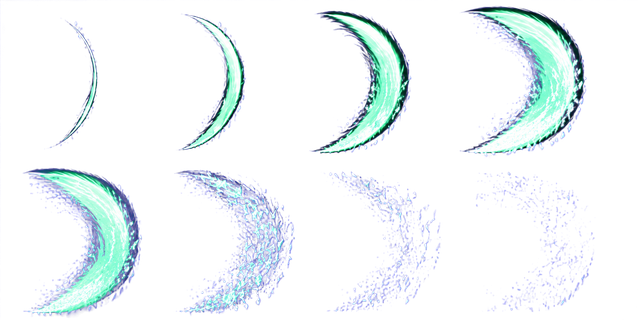
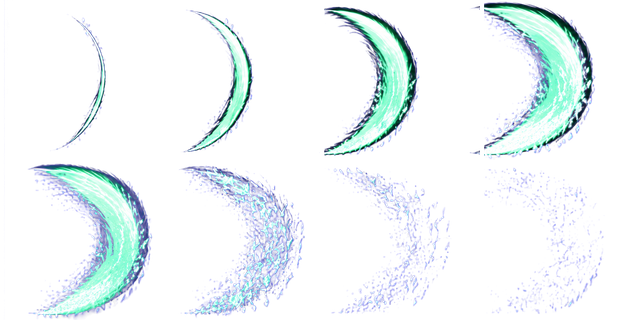
Зона косы рисуется её настоящим конусом, удар — один раз
Коса бьёт сектором 86 градусов по взгляду (у эволюции 132), а зона
рисовалась полным кругом в 494 px — вчетверо больше, чем оружие
достаёт. pulseZone теперь принимает полуугол и строит границу тем же
сектором, по которому идёт попадание; шесть круговых орудий не
затронуты.

Второе: след косы из fx-layer рисовался поверх нового листа на 185%
радиуса, сложением и без обрезки — один удар выходил нарисованным
дважды, и старый след расплывался далеко за границу зоны. Где есть
лист по заданию, старый след больше не рисуется. Тот же блок лежит
копией в render/fx/weapon-trails.js — правка внесена в обе.

Приёмка листов в chromakey.py переведена с рамки содержимого на массу
рисунка. Рамку на всю ячейку растягивала одна искра на затухании, из-за
чего первый лист косы был принят зря: по радиусу он годится, но масса
размазана на 194-299 градусов при конусе 86. Инструмент печатает r50,
r90, увод центра и угловой охват по каждому кадру; задание на косу
переписано под настоящий угол.

Claude-Session: https://claude.ai/code/session_01HKqKr2FyXg3awmgfb8SuGD

diff --git a/project/chernolesie/src/game/data/weapon-fx.js b/project/chernolesie/src/game/data/weapon-fx.js
@@ -68,37 +68,54 @@ function wfx(id){return WFX[id]||WFX_DEF;}
 //  попадание, без «художественных» множителей: если нарисовано больше, чем
 //  бьёт, игрок учится не верить картинке.
 // ============================================================
+//  v7.35: не всякая зона — круг. Коса бьёт конусом по взгляду (halfArc 0.75 рад,
+//  у эволюции 1.15), а кольцо рисовалось полное — обещало удар вокруг себя при
+//  секторе вперёд, то есть вчетверо больше, чем бьёт. Поэтому граница строится
+//  по той же паре (радиус, полуугол), по которой считается попадание: у конуса
+//  это сектор с двумя радиусами, у круга — прежнее кольцо.
 function zoneStamp(x,y,R,id,a,opts){
  if(!(R>0)||!(a>0))return;
  const f=wfx(id),o=opts||{};
  // толщина кромки НЕ пропорциональна радиусу: у зоны в 500px кольцо в 14px
  // читается как забор вокруг игрока. Растёт медленно и упирается в потолок.
  const rimW=o.rimW||Math.max(2,Math.min(5.5,1.6+R*0.008));
+ // сектор: полуугол меньше пи — значит зона конусная и замыкается на игроке
+ const half=(o.arc>0&&o.arc<Math.PI)?o.arc:0;
+ const ang=o.ang||0;
+ const path=function(){
+  ctx.beginPath();
+  if(half){
+   ctx.moveTo(0,0);
+   ctx.arc(0,0,R,ang-half,ang+half);
+   ctx.closePath();
+  }else ctx.arc(0,0,R,0,TAU);
+ };
  ctx.save();
  ctx.translate(x,y);
  // 1) тёмная кромка — обычным смешиванием, чтобы у зоны был край
  ctx.globalAlpha=Math.min(1,a*0.55);
  ctx.strokeStyle=f.rim;
  ctx.lineWidth=rimW*1.9;
- ctx.beginPath();ctx.arc(0,0,R,0,TAU);ctx.stroke();
+ path();ctx.stroke();
  // 2) цветное кольцо поверх кромки
  ctx.globalCompositeOperation='lighter';
  ctx.globalAlpha=a*0.8;
  ctx.strokeStyle=f.col;
  ctx.lineWidth=rimW;
- ctx.beginPath();ctx.arc(0,0,R,0,TAU);ctx.stroke();
+ path();ctx.stroke();
  // 3) заливка: слабая, только чтобы зона читалась как площадь, а не как обод.
  //    Сильнее нельзя — при трёх зонах внахлёст экран уходит в молоко.
  // заливка — только у небольших зон. У кольца в пол-экрана она затемняет
  // всё поле и спорит с землёй; там достаточно самой границы.
- if(o.fill!==false&&R<220){
+ // у сектора заливка уместна и на большом радиусе: он занимает четверть круга
+ if(o.fill!==false&&(R<220||half)){
   const g=ctx.createRadialGradient(0,0,R*0.25,0,0,R);
   g.addColorStop(0,'rgba(0,0,0,0)');
   g.addColorStop(0.82,f.col+'14');
   g.addColorStop(1,f.col+'30');
   ctx.globalAlpha=a*0.9;
   ctx.fillStyle=g;
-  ctx.beginPath();ctx.arc(0,0,R,0,TAU);ctx.fill();
+  path();ctx.fill();
  }
  ctx.restore();
 }
@@ -109,13 +126,16 @@ function zoneStamp(x,y,R,id,a,opts){
 //  экран в кашу, но игрок успевает прочитать, что именно ударило.
 // ------------------------------------------------------------
 let zonePulses=[];
-function pulseZone(x,y,R,id,life){
+// arc — полуугол конуса в радианах, тот же, по которому считается попадание.
+// Без него зона считается круговой, как и было у шести круглых орудий.
+function pulseZone(x,y,R,id,life,arc){
  if(!(R>0))return;
  if(zonePulses.length>24)zonePulses.shift();   // предохранитель на плотной волне
  // большая зона гаснет быстрее: чем шире кольцо, тем дольше оно мозолит глаз
  const L=life||(R>300?0.3:0.42);
  // угол фиксируется в момент удара: лист не должен крутиться на месте
- zonePulses.push({x:x,y:y,R:R,id:id,t:L,max:L,rot:(typeof P!=='undefined'&&P.fx!=null)?Math.atan2(P.fy||0,P.fx||1):0});
+ zonePulses.push({x:x,y:y,R:R,id:id,t:L,max:L,arc:arc||0,
+  rot:(typeof P!=='undefined'&&P.fx!=null)?Math.atan2(P.fy||0,P.fx||1):0});
 }
 function drawZonePulses(dt){
  for(let i=zonePulses.length-1;i>=0;i--){
@@ -133,8 +153,9 @@ function drawZonePulses(dt){
   // есть, кольцо приглушается, чтобы не спорить с рисунком.
   const RR=z.R*(1+(1-k)*0.06);
   const hasSheet=!!wfxSheet(z.id);
-  zoneStamp(zx,zy,RR,z.id,Math.min(1,k*1.25)*(hasSheet?0.5:1),hasSheet?{fill:false}:null);
-  if(hasSheet)zoneSheetStamp(zx,zy,RR,z.id,k,z.rot);
+  zoneStamp(zx,zy,RR,z.id,Math.min(1,k*1.25)*(hasSheet?0.5:1),
+   {arc:z.arc,ang:z.rot,fill:hasSheet?false:undefined});
+  if(hasSheet)zoneSheetStamp(zx,zy,RR,z.id,k,z.rot,z.arc);
  }
 }
 
@@ -179,7 +200,7 @@ function wfxSheet(id){
  return (im&&im.complete&&im.naturalWidth)?s:null;
 }
 // Кадр листа по прогрессу 0..1 (0 — момент удара, 1 — конец вспышки).
-function zoneSheetStamp(x,y,R,id,k,rot){
+function zoneSheetStamp(x,y,R,id,k,rot,arc){
  const slot=wfxSheet(id);
  if(!slot)return false;
  const raw=slot.im||slot, brief=!!slot.brief;
@@ -190,6 +211,17 @@ function zoneSheetStamp(x,y,R,id,k,rot){
  const d=R*2;
  ctx.save();
  ctx.translate(x,y);
+ // конусная зона: лист приходит веером примерно на 150°, а бьёт коса на 86°.
+ // Без обрезки нарисованное снова шире правил. Режем по тому же сектору,
+ // по которому считается попадание, — с небольшим запасом, чтобы срез не
+ // выглядел ножницами по живому.
+ if(arc>0&&arc<Math.PI){
+  ctx.beginPath();
+  ctx.moveTo(0,0);
+  ctx.arc(0,0,R*1.02,rot-arc*1.06,rot+arc*1.06);
+  ctx.closePath();
+  ctx.clip();
+ }
  if(rot)ctx.rotate(rot);
  if(brief){
   // непрозрачный силуэт поверх карты, как в Vampire Survivors: обводка держит

diff --git a/project/chernolesie/src/game/render/fx-layer.js b/project/chernolesie/src/game/render/fx-layer.js
@@ -187,6 +187,14 @@ function drawFxLayer(){
   if (sx < -130 || sy < -130 || sx > W + 130 || sy > H + 130) continue;
 
   if(s._kosa){
+   // v7.35: у косы есть свой лист зоны по заданию (WFX_SHEETS.kosa). Этот след
+   // рисуется на 185% радиуса, сложением и без обрезки по конусу — поверх листа
+   // он расплывался далеко за границу зоны, и удар читался как мазок. Один удар
+   // рисуется один раз: где есть лист, старый след не нужен.
+   // Тот же блок продублирован в render/fx/weapon-trails.js (ветка .modern),
+   // правка внесена в оба, чтобы копии не разъехались.
+   const _kw=(typeof WFX_SHEETS!=='undefined')&&WFX_SHEETS.kosa;
+   if(_kw&&_kw.brief)continue;
    const kk=Math.min(1,s.t/0.26);
    ctx.save();ctx.translate(P.x-cam.x,P.y-cam.y);ctx.rotate(s.ang);
    ctx.globalCompositeOperation='lighter';

diff --git a/project/chernolesie/src/game/render/fx/weapon-trails.js b/project/chernolesie/src/game/render/fx/weapon-trails.js
@@ -12,6 +12,13 @@ export function drawWeaponTrails(ctx, slashes, cam, FXS, currentClass, weapons, 
 
     // Коса Моры
     if (s._kosa) {
+      // v7.35: у косы появился свой лист зоны по заданию (WFX_SHEETS.kosa).
+      // Старый след рисовался поверх него на 185% радиуса, сложением и без
+      // обрезки по конусу — он и расплывался за границу зоны, превращая удар
+      // в мазок. Один удар рисуется один раз: где есть лист, старый след лишний.
+      const _kw = (typeof WFX_SHEETS !== 'undefined') && WFX_SHEETS.kosa;
+      if (_kw && _kw.brief) continue;
+
       const kk = Math.min(1, s.t / 0.26);
       ctx.save();
       ctx.translate(P.x - cam.x, P.y - cam.y);

diff --git a/project/chernolesie/src/game/weapons/set-a.js b/project/chernolesie/src/game/weapons/set-a.js
@@ -39,8 +39,10 @@ function doKosa(){
  {const _fa=Math.atan2(P.fy||0,P.fx||1);for(let _i=0;_i<7;_i++){const _a=_fa+rnd(-0.8,0.8);spawnParticle(P.x+Math.cos(_a)*40,P.y+Math.sin(_a)*40,Math.cos(_a)*140,Math.sin(_a)*140,rnd(.2,.45),'#bfe0ff',30,0);}}
  const evo=w&&w.evo;
  const R=(96+16*lvl)*wArea('kosa');
- pulseZone(P.x,P.y,R,'kosa');   // v7.33: коса бьёт на 165% ширины кадра — покажем это
  const halfArc=(evo?1.15:0.75);
+ // v7.35: зона рисуется тем же конусом, по которому идёт попадание (см. dot ниже).
+ // До этого рисовался полный круг — вчетверо больше, чем коса на самом деле бьёт.
+ pulseZone(P.x,P.y,R,'kosa',0,halfArc);
  const fx=P.fx||1,fy=P.fy||0;
  const list=enemiesNear(P.x,P.y,R+24);
  let hitAny=false;

diff --git a/project/chernolesie/tools/chromakey.py b/project/chernolesie/tools/chromakey.py
@@ -119,6 +119,62 @@ def union_box(frames, threshold=6.0):
     return box
 
 
+def frame_stats(f):
+    """Где на самом деле лежит рисунок кадра: центр масс и радиус по массе.
+
+    Рамка содержимого для этого не годится. Она берёт крайний непрозрачный
+    пиксель, поэтому одна еле видная искра на затухании растягивает её на всю
+    ячейку — лист выглядит принятым, а на экране яркое ядро сидит вдвое ближе
+    к игроку, чем граница поражения. Масса такого не прощает."""
+    a = f[:, :, 3] / 255.0
+    tot = a.sum()
+    if tot < 1e-6:
+        return None
+    h, w = a.shape
+    yy, xx = np.mgrid[0:h, 0:w]
+    cx, cy = (w - 1) / 2.0, (h - 1) / 2.0
+    R = w / 2.0
+    mx = float((a * (xx - cx)).sum() / tot)
+    my = float((a * (yy - cy)).sum() / tot)
+    rad = (np.hypot(xx - cx, yy - cy) / R).ravel()
+    order = np.argsort(rad)
+    cs = np.cumsum(a.ravel()[order])
+    q = lambda p: float(rad[order][np.searchsorted(cs, tot * p)])
+    # угловой охват массы: у конусного оружия рисунок обязан лежать в его секторе,
+    # иначе на экране удар шире правил — или, после обрезки, от него остаётся полоска
+    ang = np.degrees(np.arctan2(yy - cy, xx - cx)).ravel()
+    ao = np.argsort(ang)
+    cs2 = np.cumsum(a.ravel()[ao])
+    lo = float(ang[ao][np.searchsorted(cs2, tot * 0.05)])
+    hi = float(ang[ao][np.searchsorted(cs2, tot * 0.95)])
+    return {'mass': float(tot / (w * h)), 'cx': mx / R, 'cy': my / R,
+            'r50': q(0.5), 'r90': q(0.9), 'span': hi - lo}
+
+
+def fit_box(frames, weight_pow=2.0):
+    """Рамка по массе: центр — там же, где рисунок, размер — по ядру.
+
+    Считается по пиковым кадрам с весом mass^2: затухающая пыль не должна
+    решать, каким на экране будет удар. Итог — рисунок центрирован на игроке
+    и его ядро выходит на границу поражения, а не сидит на половине радиуса."""
+    st = [frame_stats(f) for f in frames]
+    live = [(s, f) for s, f in zip(st, frames) if s]
+    if not live:
+        raise SystemExit('Все кадры пустые')
+    wts = np.array([s['mass'] ** weight_pow for s, _ in live])
+    wts /= wts.sum()
+    h, w = frames[0].shape[:2]
+    R = w / 2.0
+    cx = (w - 1) / 2.0 + R * sum(wt * s['cx'] for wt, (s, _) in zip(wts, live))
+    cy = (h - 1) / 2.0 + R * sum(wt * s['cy'] for wt, (s, _) in zip(wts, live))
+    # половина стороны: ядро (90% массы пиковых кадров) должно упереться в край
+    half = R * sum(wt * s['r90'] for wt, (s, _) in zip(wts, live))
+    half = max(half, R * 0.2)
+    x0, y0 = int(round(cx - half)), int(round(cy - half))
+    side = int(round(half * 2))
+    return (x0, y0, x0 + side, y0 + side), st
+
+
 def square(box, w, h):
     """Дотянуть рамку до квадрата: ячейки выходного листа квадратные."""
     x0, y0, x1, y1 = box
@@ -152,6 +208,9 @@ def main():
     ap.add_argument('--pick')
     ap.add_argument('--out-grid', default='4x2')
     ap.add_argument('--cell', type=int, default=160)
+    ap.add_argument('--fit', choices=['mass', 'box'], default='mass',
+                    help='mass — кадрировать по массе рисунка (по умолчанию), '
+                         'box — по рамке содержимого, как было до v7.35')
     args = ap.parse_args()
 
     rgba = key(Image.open(args.src))
@@ -165,7 +224,27 @@ def main():
     if args.pick:
         frames = [frames[int(i)] for i in args.pick.split(',')]
 
-    box = square(union_box(frames), frames[0].shape[1], frames[0].shape[0])
+    if args.fit == 'box':
+        box = square(union_box(frames), frames[0].shape[1], frames[0].shape[0])
+        stats = [frame_stats(f) for f in frames]
+    else:
+        box, stats = fit_box(frames)
+
+    # Отчёт по кадрам: на что смотреть при приёмке листа.
+    #  r90 — радиус, внутри которого 90% рисунка, в долях половины ячейки.
+    #        Меньше ~0.8 у пиковых кадров — эффект мельче зоны поражения.
+    #  cx/cy — увод центра масс от центра ячейки, в тех же долях.
+    #        Разброс между кадрами — это то, как эффект ездит вбок на экране.
+    #  охват — угловой разброс массы. У конусного оружия он должен укладываться
+    #        в сектор попадания, иначе лишнее либо врёт, либо срезается обрезкой.
+    print('кадр | масса | r50  r90 | увод центра | охват')
+    for i, s in enumerate(stats):
+        if not s:
+            print(f'{i + 1:>4} | пусто')
+            continue
+        print(f'{i + 1:>4} | {s["mass"]:5.3f} | {s["r50"]:4.2f} {s["r90"]:4.2f} '
+              f'| {s["cx"]:+5.2f} {s["cy"]:+5.2f} | {s["span"]:5.0f}°')
+
     cell = args.cell
     cols, rows = parse_grid(args.out_grid)
     if len(frames) != cols * rows:

diff --git a/project/chernolesie/docs/art-briefs.md b/project/chernolesie/docs/art-briefs.md
@@ -22,6 +22,13 @@
 экране он окажется вдвое меньше зоны — и снова получится, что бьёт дальше,
 чем видно.
 
+**Форма эффекта — форма зоны поражения.** Шесть орудий бьют полным кругом,
+там годится кольцевая или лучевая композиция на 360°. Коса — единственная
+конусная: сектор 86° по взгляду, у эволюции 132°. Первый лист косы пришёл
+размазанным на 194–299°, почти в кольцо; игра обрезает лист по настоящему
+конусу, и от такого рисунка на экране остаётся полоска. Угол в задании
+указан не для красоты.
+
 **Ровный magenta без виньетки.** Прошлый лист взмаха меча пришёл с затемнением
 по углам: в центре фон был почти чистый `#FF00FF`, а по углам вдвое темнее.
 Снятие фона по порогу убрало центр и оставило углы — вокруг каждого кадра
@@ -40,11 +47,15 @@
 Цвета указаны намеренно: они совпадают с цветовой таблицей оружия, иначе лист
 будет спорить с остальной графикой.
 
-### 1. Коса Моры — зона 494 px, это 165% ширины экрана — ГОТОВО
+### 1. Коса Моры — зона 494 px, конус 86° — НУЖНА ВТОРАЯ ГЕНЕРАЦИЯ
 
-Лист принят со второй попытки: только след, без фигуры, рамка содержимого
-совпала с ячейкой (0,0)–(443,443) — полей генератор не оставил. Лежит как
-`kosa-zone-sheet.webp`, подключён вместо дымного серпа-заглушки.
+Присланный лист чистый и по всем прочим меркам годный: фигуры нет, фон ровный,
+ядро доходит до края ячейки (`r90` ≈ 1.0). Не сошёлся угол — масса размазана
+на 194–299°, почти в кольцо, при конусе поражения 86°. Игра режет лист по
+настоящему конусу, и от кольца остаётся полоска. Лист лежит подключённым как
+`kosa-zone-sheet.webp`, заменить можно в одно движение.
+
+Задание ниже переписано под настоящий угол.
 
 > Спрайт-лист 4×2, 8 кадров анимации, фон сплошной ярко-пурпурный #FF00FF без
 > градиента и виньетки.
@@ -54,16 +65,18 @@
 > черепа, любых предметов. Только чистый энергетический след, как будто оружие
 > уже унесли из кадра.
 >
-> Форма: широкая серповидная дуга, раскрывающаяся веером примерно на 150
-> градусов, вогнутой стороной влево. Дуга центрирована в ячейке и к пиковым
-> кадрам касается всех четырёх краёв.
+> Форма: КЛИН, раскрытый вправо примерно на 85 градусов — узкий у левого края
+> ячейки, широкий у правого. Остриё клина упирается в середину левого края,
+> дуга — в правый край. Верхний и нижний края ячейки остаются пустыми:
+> след НЕ заворачивается вокруг, это не кольцо и не полумесяц, а один взмах
+> вперёд, вроде луча прожектора или следа от взмаха мечом слева направо.
 >
-> Цвет: холодная мятная зелень #8affc4, белое раскалённое ядро вдоль внутренней
-> кромки дуги, тёмно-зелёная обводка #0e3a28 по внешнему краю. Морозная крошка
-> и мелкие ледяные искры вдоль следа.
+> Цвет: холодная мятная зелень #8affc4, белое раскалённое ядро вдоль дуги,
+> тёмно-зелёная обводка #0e3a28 по внешнему краю. Морозная крошка и мелкие
+> ледяные искры вдоль следа.
 >
-> Кадры 1-3: дуга нарастает от тонкой нити до половины кадра. Кадры 4-5: пик,
-> дуга во всю ячейку. Кадры 6-8: распадается на морозные искры и гаснет.
+> Кадры 1-3: клин раскрывается от острия. Кадры 4-5: пик, дуга упирается
+> в правый край. Кадры 6-8: распадается на морозные искры и гаснет.
 >
 > Стиль: игровой VFX для вида сверху, плоская подача без перспективы, без
 > текста, без рамок, без подписей, без сетки.
@@ -136,9 +149,19 @@
 цвет восстанавливается обратным альфа-смешиванием, кадры перекладываются в
 общий для проекта формат 640×320.
 
-Инструмент печатает рамку содержимого. Если она заметно меньше ячейки — значит
-генератор оставил поля, и лист надо перегенерировать: на экране он был бы
-мельче зоны поражения.
+Инструмент печатает таблицу по кадрам. Приёмка идёт по ней, а не на глаз —
+первый лист косы прошёл проверку по рамке содержимого и всё равно не сел:
+рамку на всю ячейку растянула еле видная пыль на затухании, а сам рисунок
+лежал не там, где нужно. Считается по массе рисунка:
+
+* `r90` — радиус, внутри которого 90% рисунка, в долях половины ячейки.
+  У пиковых кадров должен быть около 1.0. Заметно меньше — эффект мельче
+  зоны поражения.
+* `увод центра` — насколько центр масс кадра съехал от центра ячейки.
+  Разброс между кадрами — это то, как эффект будет ездить вбок вокруг игрока.
+  Норма — в пределах ±0.1.
+* `охват` — угловой разброс массы. У шести круговых орудий он большой и это
+  правильно. У косы должен уложиться в её конус, 86°.
 
 Пока листа для оружия нет, его зона рисуется цветным кольцом. Поэтому листы
 можно заводить по одному и сразу смотреть, что изменилось.
